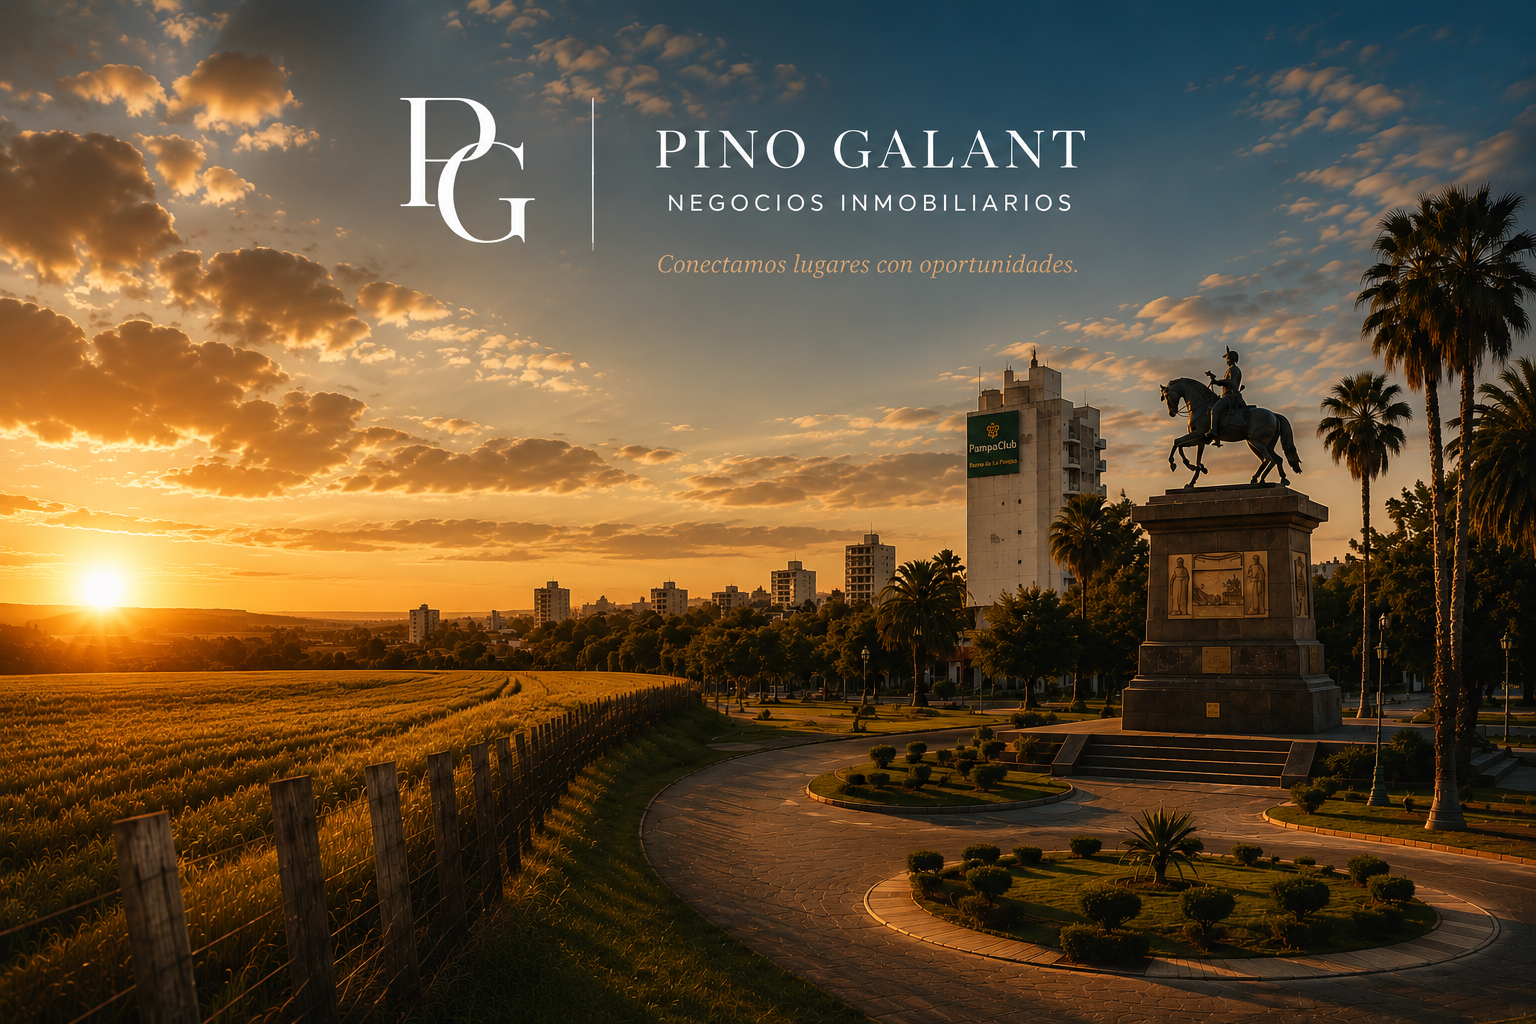
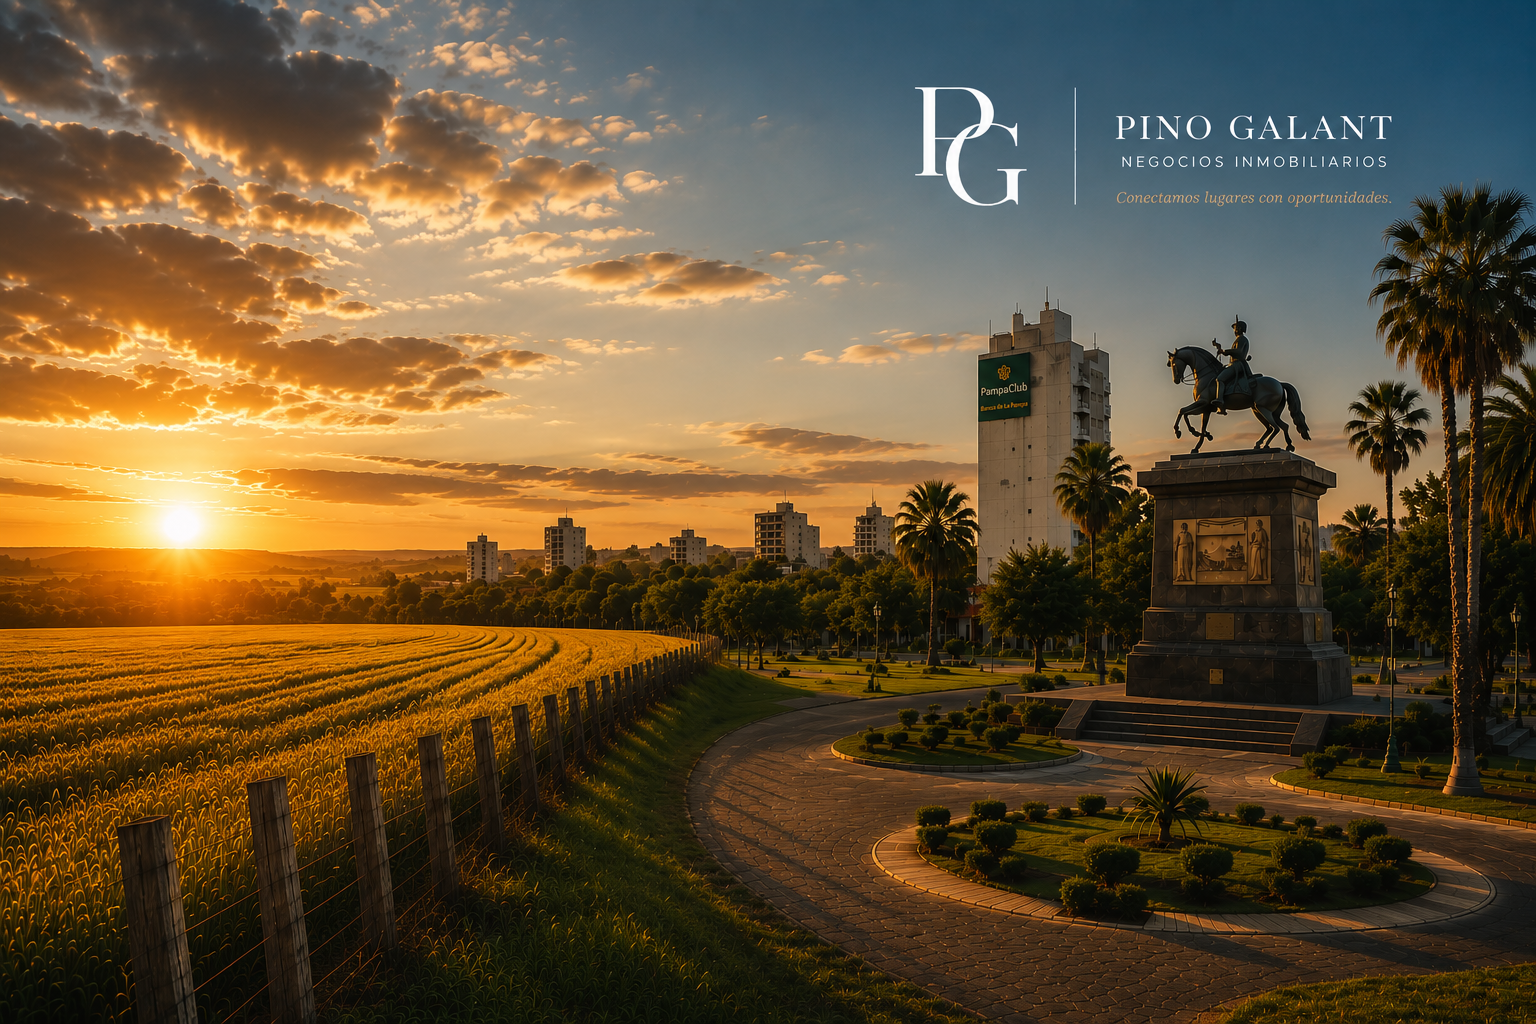
fix: hero centrado + nuevo hero.jpg

diff --git a/app/globals.css b/app/globals.css
@@ -79,11 +79,12 @@ a { color: inherit; text-decoration: none; }
 .hero-section {
   background-image: url('/hero.jpg');
   background-size: cover;
-  background-position: center center;
+  background-position: center top;
   background-repeat: no-repeat;
   min-height: 100vh;
   display: flex;
   align-items: flex-end;
+  justify-content: center;
   position: relative;
   overflow: hidden;
 }
@@ -91,18 +92,21 @@ a { color: inherit; text-decoration: none; }
   content: '';
   position: absolute;
   inset: 0;
-  /* gradiente fuerte solo en la franja inferior donde va el texto */
   background:
-    linear-gradient(to top, rgba(10,13,16,0.95) 0%, rgba(10,13,16,0.75) 32%, rgba(10,13,16,0.15) 60%, transparent 100%);
+    linear-gradient(to top, rgba(10,13,16,0.95) 0%, rgba(10,13,16,0.70) 35%, rgba(10,13,16,0.10) 65%, transparent 100%);
   pointer-events: none;
 }
 .hero-inner {
   position: relative;
   z-index: 2;
-  max-width: 680px;
-  margin: 0;
-  padding: 0 32px 56px;
+  max-width: var(--container);
+  margin: 0 auto;
+  padding: 0 24px 60px;
   width: 100%;
+  text-align: center;
+  display: flex;
+  flex-direction: column;
+  align-items: center;
 }
 .hero-badge {
   display: inline-flex;
@@ -120,21 +124,23 @@ a { color: inherit; text-decoration: none; }
   margin-bottom: 28px;
 }
 .hero-title {
-  font-size: clamp(30px, 4vw, 52px);
+  font-size: clamp(32px, 4.5vw, 58px);
   font-weight: 900;
   line-height: 1.1;
   letter-spacing: -0.02em;
   color: #fff;
-  margin: 0 0 16px;
-  max-width: 600px;
+  margin: 0 0 18px;
+  max-width: 700px;
+  text-align: center;
 }
 .hero-title span { color: #B48A73; }
 .hero-subtitle {
   font-size: clamp(14px, 1.5vw, 17px);
   color: rgba(255,255,255,.65);
   margin: 0 0 36px;
-  max-width: 480px;
+  max-width: 500px;
   line-height: 1.6;
+  text-align: center;
 }
 
 /* Hero Search Box */
@@ -514,9 +520,9 @@ table { display: block; overflow-x: auto; -webkit-overflow-scrolling: touch; }
 
   /* Hero */
   .hero-section { min-height: 100vh; }
-  .hero-inner { padding: 0 20px 44px; max-width: 100%; }
-  .hero-title { font-size: clamp(24px, 7vw, 36px); margin-bottom: 10px; }
-  .hero-subtitle { font-size: 13px; margin-bottom: 20px; }
+  .hero-inner { padding: 0 20px 44px; }
+  .hero-title { font-size: clamp(24px, 7vw, 36px); margin-bottom: 12px; }
+  .hero-subtitle { font-size: 13px; margin-bottom: 22px; }
   .hero-search { padding: 8px; border-radius: 16px; }
   .hero-search-row { flex-direction: column; gap: 8px; }
   .hero-search-select { min-width: auto; width: 100%; }
